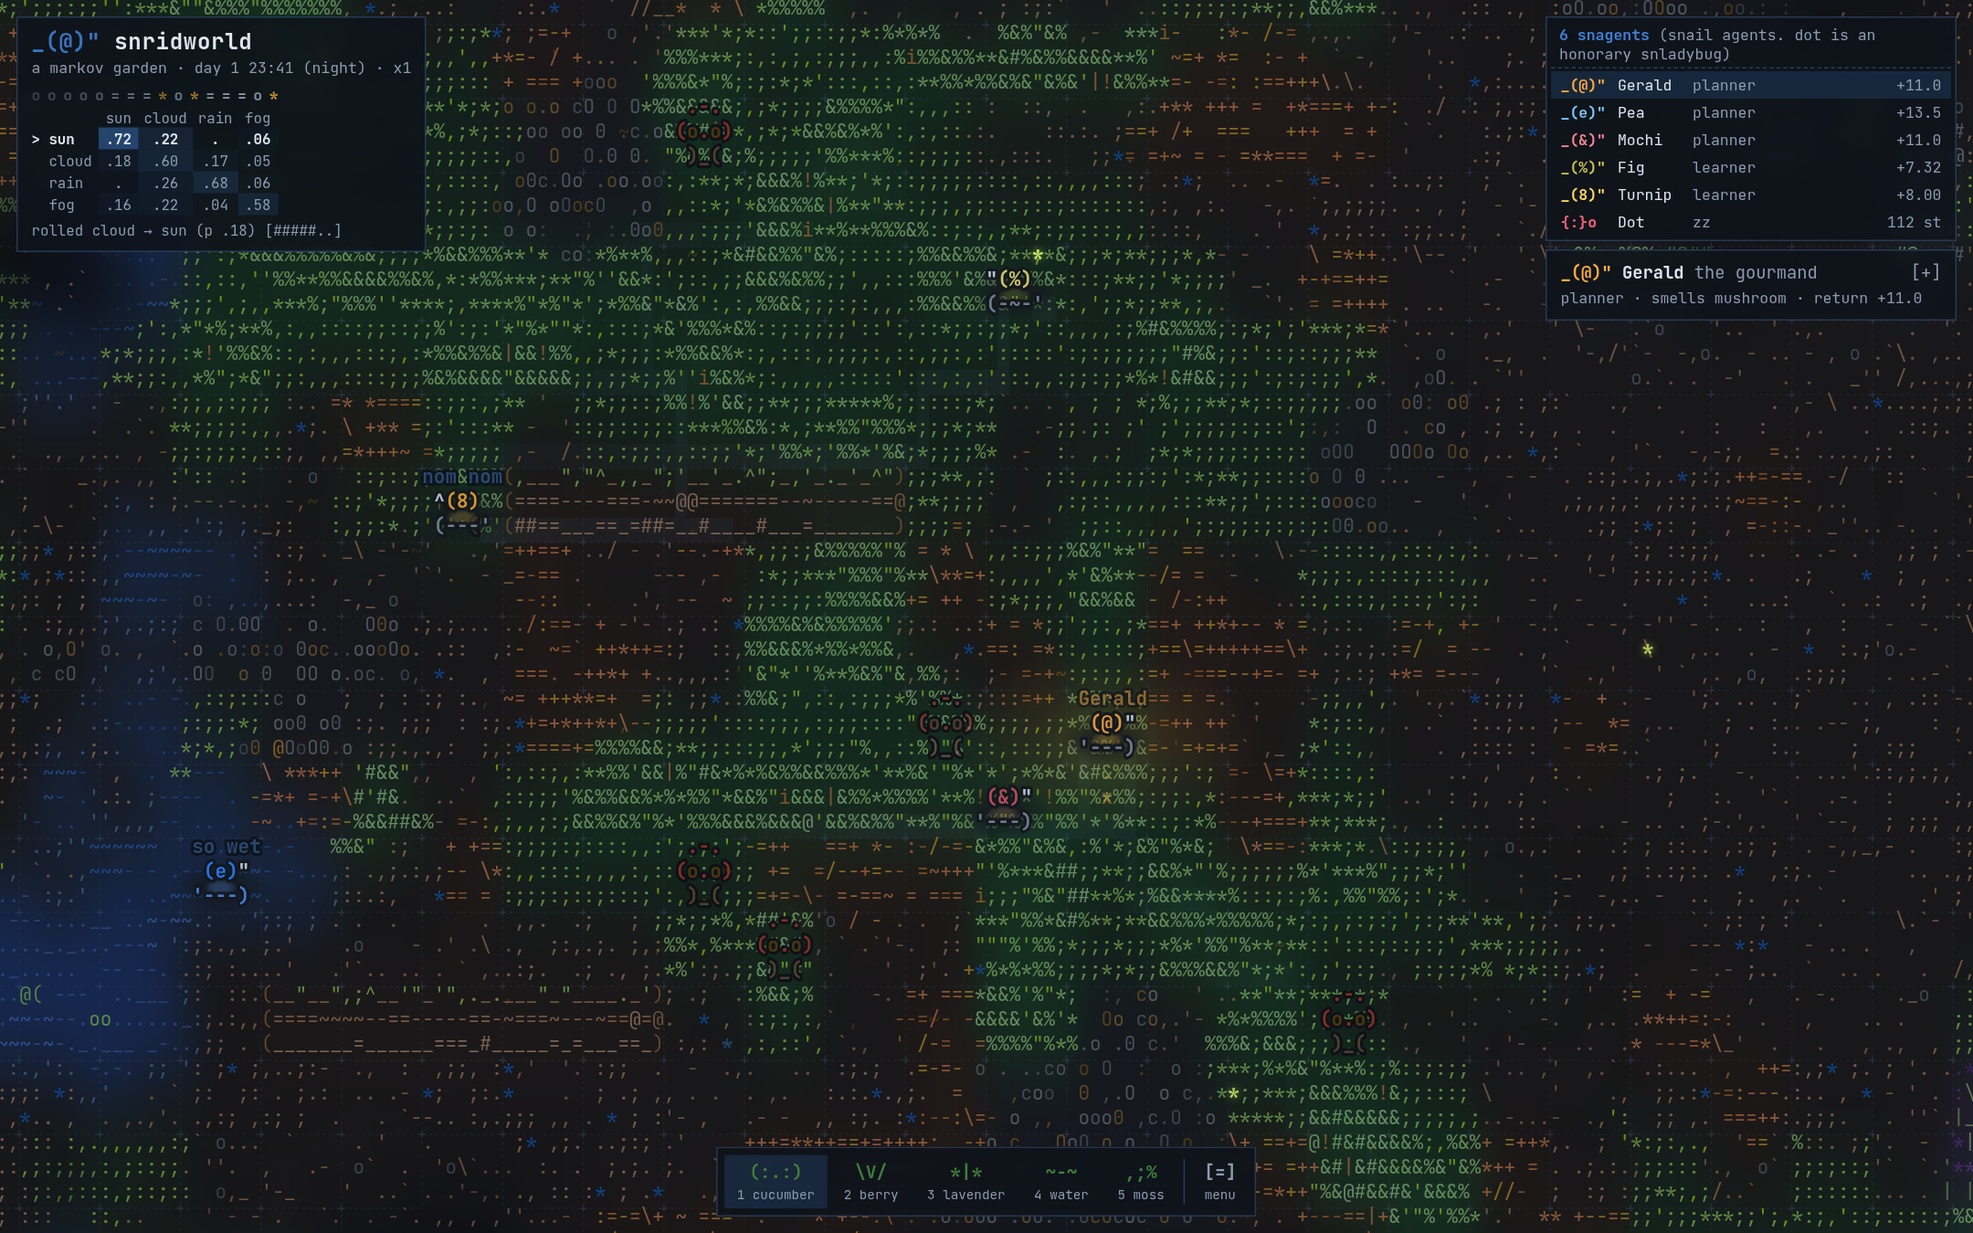
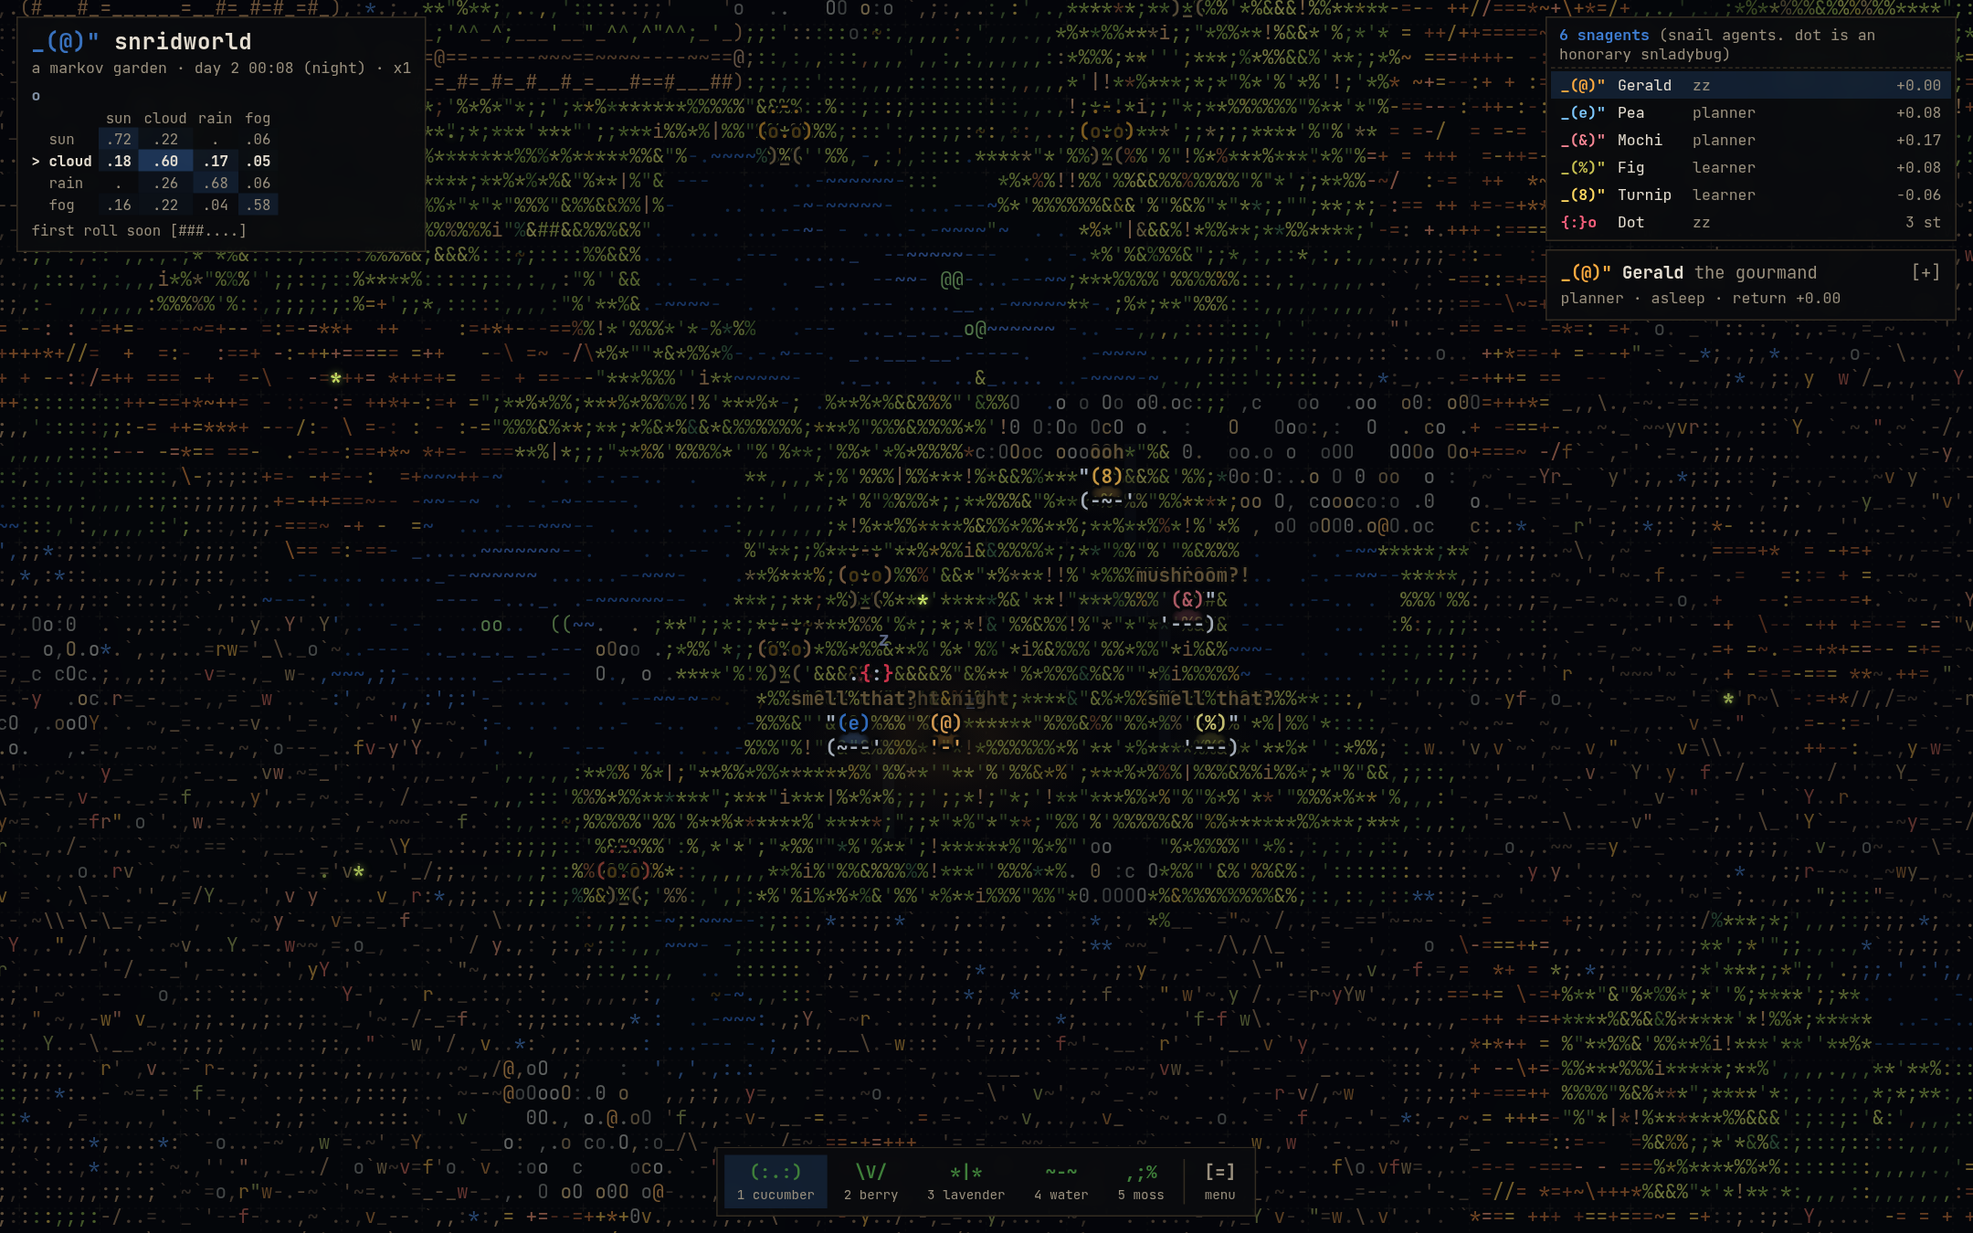
dark-native garden: crisp glyphs on black, authored dark palette
Opens dark by default. Terrain gets its own dark colours instead of the paper
palette inverted, bare ground fills with dim grains and autumn weeds, and the
blurred tint/paper washes are gone in dark. d still switches to the light look.

diff --git a/js/grid/main.js b/js/grid/main.js
@@ -385,20 +385,20 @@ function drawAtmo() {
   for (let gy = 0; gy < GR; gy++) for (let gx = 0; gx < GC; gx++) {
     const gi = gy * GC + gx, k = gi * 4;
     const m = fbm(NF1, gx / 34 + t * .045, gy / 13 + t * .012, 2);
-    const a = (clamp((m - .42) * 3, 0, 1) * amt * (dark ? .17 : .075) + rain * .035) * charEA[gi];
+    const a = (clamp((m - .42) * 3, 0, 1) * amt * (dark ? .1 : .075) + rain * .035) * charEA[gi];
     d[k] = sr; d[k + 1] = sg; d[k + 2] = sb; d[k + 3] = a * 255;
   }
   sh.ctx.putImageData(sh.img, 0, 0);
   const l = vp.atmo, c = l.ctx, { gx0, gx1, gy0, gy1 } = beginVP(l);
   const X = l.ox - L.M, Y = l.oy - L.M, w = L.W + 2 * L.M, h = L.H + 2 * L.M;
-  if (sun > .05) { c.fillStyle = dark ? `rgba(255,200,120,${.03 * sun})` : `rgba(255,214,120,${.05 * sun})`; c.fillRect(X, Y, w, h); }
+  if (sun > .05 && !dark) { c.fillStyle = dark ? `rgba(255,200,120,${.03 * sun})` : `rgba(255,214,120,${.05 * sun})`; c.fillRect(X, Y, w, h); }
   if (fog > .02) {
-    c.fillStyle = dark ? `rgba(70,82,100,${.22 * fog})` : `rgba(236,240,246,${.32 * fog})`; c.fillRect(X, Y, w, h);
+    c.fillStyle = dark ? `rgba(8,9,11,${.38 * fog})` : `rgba(236,240,246,${.32 * fog})`; c.fillRect(X, Y, w, h);   // fog swallows the far glyphs
     for (let gy = gy0; gy < gy1; gy++) for (let gx = gx0; gx < gx1; gx++) {
       const m = NF2(gx / 14 - S.t * .3, gy / 3.6) * .6 + NF2(gx / 5 - S.t * .55 + 40, gy / 1.6) * .4;
       if (m < .58) continue;
       const a = clamp((m - .58) * 3, 0, 1) * fog * .55;
-      c.fillStyle = dark ? `rgba(150,165,190,${a.toFixed(3)})` : `rgba(140,155,178,${a.toFixed(3)})`;
+      c.fillStyle = dark ? `rgba(160,160,150,${(a * .8).toFixed(3)})` : `rgba(140,155,178,${a.toFixed(3)})`;
       c.fillText(m > .7 ? '~' : hsh(gx, gy, 4) < .5 ? '-' : '.', gx * L.CW, gy * L.CH);
     }
   }
@@ -645,7 +645,7 @@ function snagentArt(a) {
     return { lines, mask, colors: { r: a.shell, k: '#36404d' }, dx: 1, dy: 1 };
   }
   const S0 = a.spiral, onWater = world.type[a.s] === T.PUDDLE;
-  const colors = { s: a.shell, e: '#36404d', b: onWater ? '#5b84c4' : '#7d8a98' };
+  const colors = { s: a.shell, e: '#36404d', b: onWater ? '#5b84c4' : THEME.dark ? '#3c444e' : '#7d8a98' };
   let lines, mask, dx = 0;
   if (a.age < GROW) {   // snaby: two characters wide
     const E = a.blink > 0 || asleep ? '.' : '"';
@@ -686,7 +686,7 @@ function drawPool(c, a) {
   c.save(); c.translate(x, y); c.scale(1, .62);
   const g = c.createRadialGradient(0, 0, 0, 0, 0, R);
   const [r, gg, b] = hex(a.shell);
-  if (THEME.dark) { g.addColorStop(0, `rgba(${r},${gg},${b},.26)`); g.addColorStop(.5, `rgba(${r},${gg},${b},.1)`); g.addColorStop(1, `rgba(${r},${gg},${b},0)`); }
+  if (THEME.dark) { g.addColorStop(0, `rgba(${r},${gg},${b},.14)`); g.addColorStop(.5, `rgba(${r},${gg},${b},.05)`); g.addColorStop(1, `rgba(${r},${gg},${b},0)`); }
   else { g.addColorStop(0, 'rgba(255,253,242,.82)'); g.addColorStop(.45, 'rgba(255,252,240,.4)'); g.addColorStop(1, 'rgba(255,252,240,0)'); }
   c.fillStyle = g; c.beginPath(); c.arc(0, 0, R, 0, Math.PI * 2); c.fill();
   c.restore();
@@ -928,11 +928,11 @@ function render(dt) {
   ctx.setTransform(1, 0, 0, 1, 0, 0);
   ctx.fillStyle = pal.table; ctx.fillRect(0, 0, cv.width, cv.height);
   worldT(ctx); ctx.font = L.FONT; ctx.textBaseline = 'top';
-  ctx.save(); ctx.imageSmoothingEnabled = true; ctx.drawImage(tiny.paper.cv, 0, 0, L.gw, L.gh); ctx.restore();
+  if (!THEME.dark) { ctx.save(); ctx.imageSmoothingEnabled = true; ctx.drawImage(tiny.paper.cv, 0, 0, L.gw, L.gh); ctx.restore(); }
   // slime first, so it tints under the terrain characters
   for (const [gi, t0] of trail) {
     const a = .13 * (1 - (S.sim - t0) / 40);
-    ctx.fillStyle = THEME.dark ? `rgba(110,170,240,${(a * .8).toFixed(3)})` : `rgba(110,170,240,${a.toFixed(3)})`;
+    ctx.fillStyle = THEME.dark ? `rgba(150,175,200,${(a * .45).toFixed(3)})` : `rgba(110,170,240,${a.toFixed(3)})`;
     ctx.fillRect((gi % L.GC) * L.CW, (gi / L.GC | 0) * L.CH, L.CW + .3, L.CH);
   }
   if (tintDirty && (S.tintT += dt) > .1) {
@@ -941,7 +941,8 @@ function render(dt) {
     tiny.tint.ctx.putImageData(tiny.tint.img, 0, 0); tintDirty = false;
     const b = tiny.tintB.ctx; b.clearRect(0, 0, L.GC, L.GR); b.filter = 'blur(1.6px)'; b.drawImage(tiny.tint.cv, 0, 0); b.filter = 'none';
   }
-  ctx.save(); ctx.imageSmoothingEnabled = true; ctx.drawImage(tiny.tintB.cv, 0, 0, L.gw, L.gh); ctx.restore();
+  // on paper the terrains sit on soft colour washes; in the dark garden the glyphs alone carry the colour
+  if (!THEME.dark) { ctx.save(); ctx.imageSmoothingEnabled = true; ctx.drawImage(tiny.tintB.cv, 0, 0, L.gw, L.gh); ctx.restore(); }
   drawGrid(ctx);
   blitVP(terrain); worldT(ctx);
   blitVP(vp.water);
@@ -992,7 +993,7 @@ function drawGrid(c) {
   const ty0 = Math.max(1, Math.floor(S.camY / th)), ty1 = Math.min(world.rows - 1, Math.ceil((S.camY + L.H) / th));
   const ins = (x, y) => world.inside(world.idx(x, y));
   const mx = S.mx >= 0 ? S.mx + S.camX : -1e9, my = S.my >= 0 ? S.my + S.camY : -1e9, RAD = 170;
-  const base = S.view ? .26 : .15;
+  const base = S.view ? .26 : THEME.dark ? .07 : .15;
   c.save(); c.lineWidth = 1; c.setLineDash([2, 3]);
   c.strokeStyle = `rgba(${gr},${gg},${gb},${base})`;
   c.beginPath();
@@ -1270,7 +1271,7 @@ addEventListener('resize', () => {
   }, 250);
 });
 
-setTheme(matchMedia('(prefers-color-scheme: dark)').matches);
+setTheme(true);   // the garden is made for the dark; d switches to the old paper look
 document.fonts.load(`12px 'JetBrains Mono'`).finally(() => {
   init();
   if (S.test) window.SR = { S, get world() { return world; }, get snagents() { return snagents; }, get eggs() { return eggs; }, step: dt => { update(dt); }, render: () => { render(1); ui(); }, frame: dt => render(dt), KEYS, lookAt };

diff --git a/js/grid/textures.js b/js/grid/textures.js
@@ -1,10 +1,15 @@
 // how each tile type looks, one character at a time. noise runs in global char coords so
 // neighbouring tiles of the same kind knit together instead of reading as stamped squares.
-import { makeNoise, fbm, mulberry32, clamp, PAL } from '../util.js';
+import { makeNoise, fbm, mulberry32, clamp, PAL, THEME, ink } from '../util.js';
 import { T } from './world.js';
 
 const { MOSS, SOIL, BARK, ROCK, LEAF, SAND } = PAL;
 const MOSS_RAMP = '.,:;*%&#@', LEAF_RAMP = '.:-=+*%#', ROCK_RAMP = '.:-=+*#%@';
+// dry weeds and seed heads that scatter over bare ground in the dark garden, in autumn colours
+const WEEDS = ['v', 'y', 'Y', 'w', '"', 'v', 'r', 'f'], WEED_C = ['#b58a3a', '#9a6a34', '#a8584a', '#8e7a52', '#b0745a', '#7f8a4a'];
+// on black, a moss bed is never one green: mustard, pine, a little rust and dried straw creep in
+const MOSS_D = ['#a39a3c', '#c2a746', '#3f6a4a', '#5a7f3a', '#8e5a36', '#9c8a5a'].map(ink);
+const WEED_D = WEED_C.map(ink);
 const R = (a, h) => a[Math.floor(h * a.length) % a.length];
 
 export const hsh = (x, y, k = 0) => {
@@ -33,14 +38,15 @@ export function makeTextures(seed) {
         const n = fbm(N1, gx / 11, gy / 4.5, 2);
         if (Math.abs(N2(gx / 7, gy / 2.6) - .5) < .016) g = [R(['_', '/', '\\', '-', ','], h), SOIL(.45 + n * .2)];   // drying cracks
         else if (h < .012) g = ['o', ROCK(.62)];
-        else if (h > .4 + .12 * n) g = [' ', null];                                                  // quiet ground: mostly paper
+        else if (THEME.dark && hsh(gx, gy, 7) < .06 + .1 * n) g = [R(WEEDS, h2), R(WEED_D, hsh(gx, gy, 8))];   // weeds
+        else if (h > .4 + .12 * n) g = THEME.dark && h > .5 ? [R(['.', '-', '_', '.', '`', ',', '~', '='], h2), SOIL(clamp(.82 + .16 * n, 0, 1))] : [' ', null];   // quiet ground: paper, or dim grain on black
         else g = [R(['.', '.', ',', "'", '`', '.', '.', '-'], h2), SOIL(clamp(.6 + .3 * n + (h - .5) * .2, 0, .95))];
         break;
       }
       case T.DAMP: {
         const n = fbm(N1, gx / 9, gy / 4, 2);
-        if (h < .035) g = [flick(o.now, h, .8, 6) ? '*' : "'", 'rgba(70,140,230,.85)'];          // dew
-        else if (h > .66) g = [' ', null];
+        if (h < .035) g = [flick(o.now, h, .8, 6) ? '*' : "'", THEME.dark ? PAL.WATER(.55) : 'rgba(70,140,230,.85)'];          // dew
+        else if (h > .66) g = THEME.dark ? [R(['.', ',', ':', '`'], h2), SOIL(.86)] : [' ', null];
         else g = [R([':', ';', ',', '.', ':', '.', ';'], h2), SOIL(clamp(.3 + .35 * n + (h - .5) * .2, 0, 1))];
         break;
       }
@@ -49,6 +55,12 @@ export function makeTextures(seed) {
         if (lush && h2 < .035) { g = [R(['!', 'i', '|', '!'], h), h < .5 ? '#a0703a' : '#8a5a34']; break; }   // sporophytes
         if (h2 < (lush ? .16 : .1)) { g = [flick(o.now, h, .6) ? "'" : (lush ? '"' : ','), MOSS(lush ? .8 : .88)]; break; }   // tufts
         const tone = lush ? clamp(.32 + .6 * (1 - L) + (h - .5) * .16, 0, .999) : clamp(.05 + .6 * (1 - L) + (h - .5) * .16, 0, .999);
+        if (THEME.dark) {   // lighter glyphs overall, so the bright clumps stand out of a dim bed
+          const h3 = hsh(gx, gy, 9);
+          const col = h3 < (lush ? .1 : .16) ? R(MOSS_D, hsh(gx, gy, 10)) : MOSS(clamp((lush ? .12 : .4) + .5 * L + (h2 - .5) * .34, 0, 1));
+          g = [MOSS_RAMP[Math.floor(tone * (lush ? .9 : .7) * MOSS_RAMP.length)], col];
+          break;
+        }
         g = [MOSS_RAMP[Math.floor(tone * MOSS_RAMP.length)], MOSS(clamp((lush ? .1 : .35) + .42 * L + (h2 - .5) * .2, 0, 1), lush ? 0 : .04)];
         break;
       }
@@ -84,7 +96,9 @@ export function makeTextures(seed) {
         if (d > 1.15) { g = [R(['.', ':', ',', "'"], h), ROCK(.5 + .3 * h2)]; break; }   // grit around the boulder
         if (v < -.3 && N3(gx / 4, gy / 2) > .52) { g = [R(MOSS_RAMP.slice(2), h), MOSS(.3 + .4 * h2)]; break; }
         const light = clamp(-.45 * u - .55 * v + .45 * Math.sqrt(Math.max(0, 1 - d * .8)) + (h - .5) * .25 + .2, 0, 1);
-        g = [ROCK_RAMP[Math.floor((1 - light) * .999 * 9)], ROCK(light * .85 + .05)];
+        // on paper the lit face is pale and sparse; on black it is the bright, dense side
+        g = THEME.dark ? [ROCK_RAMP[Math.floor(clamp(light * .95 + .05, 0, .999) * 9)], ROCK(1 - light * .9)]
+          : [ROCK_RAMP[Math.floor((1 - light) * .999 * 9)], ROCK(light * .85 + .05)];
         break;
       }
       case T.LAVENDER: {   // snails steer clear of strong-smelling herbs
@@ -106,6 +120,7 @@ export function makeTextures(seed) {
     // land touching water gets a damp margin, so shores read as wet
     if (o.shore) {
       g[2] = 'rgba(90,155,240,.08)';
+      if (THEME.dark) { if ((type === T.SOIL || type === T.DAMP) && h < .7) g = [R([':', '.', ',', ';', "'"], h2), PAL.WATER(.62)]; return g; }
       if ((type === T.SOIL || type === T.DAMP) && h < .7) g = [R([':', '.', ',', ';', "'"], h2), 'rgba(70,115,165,.75)', g[2]];
     }
     return g;

diff --git a/js/util.js b/js/util.js
@@ -35,26 +35,51 @@ export const fbm = (n, x, y, o = 4) => {
 };
 
 export const hex = h => [parseInt(h.slice(1, 3), 16), parseInt(h.slice(3, 5), 16), parseInt(h.slice(5, 7), 16)];
-// palette(stops)(t, fade) -> 'rgb()', fade mixes toward white (atmospheric distance)
-export function palette(stops) {
-  const s = stops.map(([t, c]) => [t, hex(c)]);
-  return (t, fade = 0) => {
+// the garden is authored for the dark: THEME.dark is the default, light is the old paper look
+export const THEME = { dark: true };
+// colours the dark palettes produce are already right for the dark ground; C() passes them through untouched
+export const AUTHORED = new Set();
+// a literal colour authored for the dark ground: registered so C() leaves it alone
+export const ink = c => (AUTHORED.add(c), c);
+// palette(stops, darkStops)(t, fade) -> 'rgb()'. t keeps its paper meaning in both modes: 0 is strong ink,
+// 1 is faint. on paper fade mixes toward white (distance); in the dark it sinks toward the ground.
+export function palette(stops, dark) {
+  const mk = st => st.map(([t, c]) => [t, hex(c)]);
+  const s = mk(stops), d = dark ? mk(dark) : null, memo = new Map();
+  const at = (S, t, fade, to) => {
     t = clamp(t, 0, 1);
-    let i = 0; while (i < s.length - 2 && t > s[i + 1][0]) i++;
-    const [t0, a] = s[i], [t1, b] = s[i + 1], k = (t - t0) / (t1 - t0 || 1);
-    const c = [0, 1, 2].map(j => lerp(lerp(a[j], b[j], k), 255, fade) | 0);
+    let i = 0; while (i < S.length - 2 && t > S[i + 1][0]) i++;
+    const [t0, a] = S[i], [t1, b] = S[i + 1], k = (t - t0) / (t1 - t0 || 1);
+    const c = [0, 1, 2].map(j => lerp(lerp(a[j], b[j], k), to[j], fade) | 0);
     return `rgb(${c[0]},${c[1]},${c[2]})`;
   };
+  return (t, fade = 0) => {
+    if (!THEME.dark || !d) return at(s, t, fade, [255, 255, 255]);
+    const key = Math.round(clamp(t, 0, 1) * 64) * 100 + Math.round(fade * 50);
+    let v = memo.get(key);
+    if (!v) { v = at(d, Math.round(clamp(t, 0, 1) * 64) / 64, Math.round(fade * 50) / 50, [8, 9, 11]); memo.set(key, v); AUTHORED.add(v); }
+    return v;
+  };
 }
+// dark stops run bright -> dim as t goes 0 -> 1: on black, strong ink is a bright glyph.
+// an autumn-forest palette: olive and pine mosses, ochre and rust litter, stone greys, nothing neon.
 export const PAL = {
-  MOSS: palette([[0, '#1f3d26'], [.28, '#36692f'], [.55, '#5f9a37'], [.8, '#98c446'], [1, '#d3e683']]),
-  SOIL: palette([[0, '#4b3a2c'], [.5, '#7d6248'], [1, '#b59c7d']]),
-  BARK: palette([[0, '#3d2b1e'], [.35, '#5f4330'], [.7, '#8f6b4a'], [1, '#c9a77c']]),
-  ROCK: palette([[0, '#4f5862'], [.4, '#7d8792'], [.75, '#adb6bf'], [1, '#dbe1e6']]),
-  LEAF: palette([[0, '#5a3220'], [.35, '#8a4a25'], [.65, '#b46a35'], [1, '#d59a5c']]),
-  WATER: palette([[0, '#1d4f8f'], [.4, '#3a78c9'], [.75, '#7fb0ec'], [1, '#cfe3fb']]),
-  SAND: palette([[0, '#8c7650'], [.45, '#c2a878'], [.8, '#e3d2a8'], [1, '#f4ead2']]),
-  GRASS: palette([[0, '#2d5a23'], [.4, '#4f8a33'], [.75, '#86b84a'], [1, '#c7df82']]),
+  MOSS: palette([[0, '#1f3d26'], [.28, '#36692f'], [.55, '#5f9a37'], [.8, '#98c446'], [1, '#d3e683']],
+    [[0, '#e2da80'], [.25, '#b4bc5a'], [.5, '#82a244'], [.75, '#56763a'], [1, '#32472a']]),
+  SOIL: palette([[0, '#4b3a2c'], [.5, '#7d6248'], [1, '#b59c7d']],
+    [[0, '#cfac7c'], [.45, '#9a7c58'], [.75, '#6c5944'], [1, '#463b30']]),
+  BARK: palette([[0, '#3d2b1e'], [.35, '#5f4330'], [.7, '#8f6b4a'], [1, '#c9a77c']],
+    [[0, '#d0a06a'], [.35, '#a6784a'], [.7, '#6e5038'], [1, '#3a2e24']]),
+  ROCK: palette([[0, '#4f5862'], [.4, '#7d8792'], [.75, '#adb6bf'], [1, '#dbe1e6']],
+    [[0, '#c9ccc8'], [.4, '#93968f'], [.75, '#5c605c'], [1, '#33363a']]),
+  LEAF: palette([[0, '#5a3220'], [.35, '#8a4a25'], [.65, '#b46a35'], [1, '#d59a5c']],
+    [[0, '#e8b050'], [.35, '#c47a36'], [.65, '#8e4c2c'], [1, '#4a2a1e']]),
+  WATER: palette([[0, '#1d4f8f'], [.4, '#3a78c9'], [.75, '#7fb0ec'], [1, '#cfe3fb']],
+    [[0, '#8cbcf0'], [.4, '#5288cc'], [.75, '#2e5690'], [1, '#18294a']]),
+  SAND: palette([[0, '#8c7650'], [.45, '#c2a878'], [.8, '#e3d2a8'], [1, '#f4ead2']],
+    [[0, '#e6d29c'], [.45, '#b49a68'], [.8, '#76664a'], [1, '#433b2e']]),
+  GRASS: palette([[0, '#2d5a23'], [.4, '#4f8a33'], [.75, '#86b84a'], [1, '#c7df82']],
+    [[0, '#d8d27a'], [.4, '#9aaa50'], [.75, '#56763a'], [1, '#2a3d24']]),
 };
 
 // ascii mirroring for left-facing art

diff --git a/js/grid/theme.js b/js/grid/theme.js
@@ -1,12 +1,11 @@
 // light and night. every colour is authored for paper; C() re-lights it for the dark garden:
 // strong (dark) ink becomes strong (light) ink, hue kept, greens and blues glowing a little.
-import { clamp } from '../util.js';
-
-export const THEME = { dark: false };
+import { clamp, THEME, AUTHORED } from '../util.js';
+export { THEME };
 export const PAL_UI = {
   // paper is the garden's ground; table is what the garden sits on, so the island has a frame
   light: { paper: '#f4efe3', table: '#dcd7ca', halo: 'rgba(244,239,227,.95)', ink: '#2b3442', grid: [70, 110, 160] },
-  dark: { paper: '#0e141c', table: '#080b10', halo: 'rgba(14,20,28,.95)', ink: '#dfe6ef', grid: [120, 160, 220] },
+  dark: { paper: '#08090b', table: '#08090b', halo: 'rgba(8,9,11,.92)', ink: '#e6dfd2', grid: [150, 135, 110] },
 };
 export const ui = () => THEME.dark ? PAL_UI.dark : PAL_UI.light;
 
@@ -39,20 +38,19 @@ function day(c) {
   const [R, G, B] = fromHsl(h, Math.min(1, s * 1.32 + .04), l > .35 ? l * .9 : l);
   return `rgba(${R},${G},${B},${a})`;
 }
+// literal colours (shells, flowers, accents) authored for paper: strong ink becomes a bright glyph,
+// hue kept, a touch muted so nothing goes neon on black
 function night(c) {
   const [r, g, b, a] = parse(c);
   let [h, s, l] = toHsl(r / 255, g / 255, b / 255);
-  s = Math.min(1, s * 1.18);
-  let l2 = .16 + (1 - l) * .72;
-  if (h > .2 && h < .45 && s > .15) { l2 += .06; s = Math.min(1, s * 1.25); }   // moss glows
-  if (h > .55 && h < .7 && s > .2) { l2 += .07; s = Math.min(1, s * 1.15); }    // water brightens
-  if (h < .14 && s > .12 && s < .6) l2 -= .06;                                  // soil and bark stay quiet
-  const [R, G, B] = fromHsl(h, s, clamp(l2, 0, .94));
+  s = Math.min(1, s * .95);
+  const [R, G, B] = fromHsl(h, s, clamp(.2 + (1 - l) * .66, 0, .9));
   return `rgba(${R},${G},${B},${a})`;
 }
 const memo = [new Map(), new Map()];
 export const C = c => {
   if (!c) return c;
+  if (THEME.dark && AUTHORED.has(c)) return c;
   const m = memo[THEME.dark ? 1 : 0];
   let v = m.get(c);
   if (v === undefined) { v = THEME.dark ? night(c) : day(c); m.set(c, v); }

diff --git a/index.html b/index.html
@@ -10,7 +10,7 @@
 <link href="https://fonts.googleapis.com/css2?family=JetBrains+Mono:wght@400;700&display=swap" rel="stylesheet">
 <style>
   :root { --ink: #2b3442; --soft: #7d8a9b; --paper: rgba(250,247,240,.88); --line: rgba(70,140,235,.2); --blue: 70, 140, 235; --page: #dcd7ca; }
-  :root[data-theme="dark"] { --ink: #dfe6ef; --soft: #8e9bb0; --paper: rgba(14,19,26,.88); --line: rgba(110,170,255,.25); --page: #080b10; }
+  :root[data-theme="dark"] { --ink: #e6dfd2; --soft: #9a907e; --paper: rgba(10,11,13,.9); --line: rgba(200,170,110,.22); --page: #08090b; }
   html, body {
     margin: 0; height: 100%; background: var(--page); overflow: hidden;
     touch-action: none; user-select: none; -webkit-user-select: none; -webkit-tap-highlight-color: transparent;

diff --git a/README.md b/README.md
@@ -1,6 +1,6 @@
 # snridworld
 
-`_(@)"` a markov garden, drawn entirely in ascii.
+`_(@)"` a markov garden, drawn entirely in ascii, glyph by glyph on a dark ground.
 
 **play it at [snail.brezgis.com](https://snail.brezgis.com)**
 
@@ -63,7 +63,7 @@ snagent's card has a little ascii learning curve, so you can watch the learners 
 | `w` | force a weather roll |
 | `space` / `-` `+` | pause / speed |
 | `n` | a new garden |
-| `d` | light or dark |
+| `d` | the old paper look, or back to the dark garden |
 
 ## running it
 
@@ -82,7 +82,7 @@ js/util.js          noise, palettes, small helpers
 js/grid/world.js    the tile, weather and food chains; the island's shape
 js/grid/brain.js    the crawling model (P), value iteration, Q-learning / Dyna-Q, the random walk
 js/grid/textures.js how each terrain looks, one character at a time
-js/grid/theme.js    light and dark palettes
+js/grid/theme.js    the dark garden (default) and the paper look
 js/grid/main.js     rendering, snagents, smell, snabies, day and night, input
 ```
 
